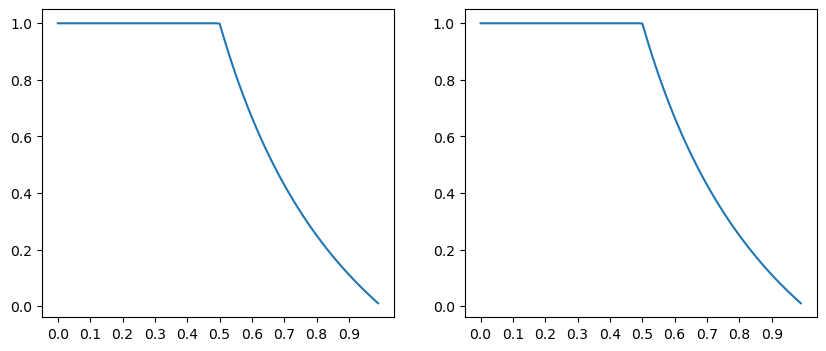
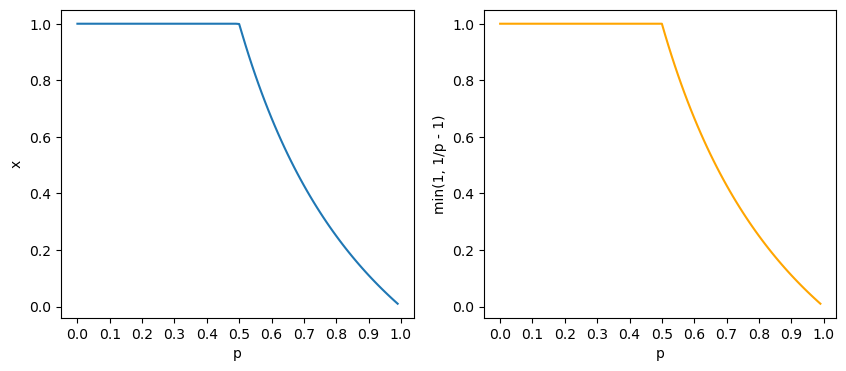
Update

diff --git a/_posts/2022-09-04-PCFG-Termination.md b/_posts/2022-09-04-PCFG-Termination.md
@@ -100,6 +100,8 @@ To compute the total probability of all finite-depth parse trees, we are essenti
 
 > A sequence converges if it is monotonic (increasing or decreasing) and bounded.
 
+A review of recursive sequence can be found [here](https://www.ms.uky.edu/~droyster/ma114F16/RecursiveSequences.pdf).
+
 Our sequence is obviously monotonically increasing by its definition, can you prove that it is bounded? A short proof is given in the appendix.
 
 *Hint: It can be proved by induction that*
@@ -147,40 +149,40 @@ def compute_rec(rec, init, args, iter):
 
 ```python
 cvg = []
+ref = []
 interval = .01
 for i, p0 in enumerate(np.arange(1e-12, 1, interval)):
     cvg.append(compute_rec(rec=rec, init=p0, args={
         "p": p0}, iter=2000)[-1])
+    ref.append(min(1, 1 / p0 - 1))
     if not i % 10:
-        print(f"p0 = {p0:.2f}\tconvergence = {cvg[-1]:.2f}\t(1 / p0 - 1) = {1 / p0 - 1:.2f}")
+        print(f"p = {p0:.2f}\tconvergence = {cvg[-1]:.2f}\tmin(1, 1/p - 1) = {ref[-1]:.2f}\t(1/p - 1) = {1 / p0 - 1:.2f}")
 ```
 
-    p0 = 0.00	convergence = 1.00	(1 / p0 - 1) = 999999999999.00
-    p0 = 0.10	convergence = 1.00	(1 / p0 - 1) = 9.00
-    p0 = 0.20	convergence = 1.00	(1 / p0 - 1) = 4.00
-    p0 = 0.30	convergence = 1.00	(1 / p0 - 1) = 2.33
-    p0 = 0.40	convergence = 1.00	(1 / p0 - 1) = 1.50
-    p0 = 0.50	convergence = 1.00	(1 / p0 - 1) = 1.00
-    p0 = 0.60	convergence = 0.67	(1 / p0 - 1) = 0.67
-    p0 = 0.70	convergence = 0.43	(1 / p0 - 1) = 0.43
-    p0 = 0.80	convergence = 0.25	(1 / p0 - 1) = 0.25
-    p0 = 0.90	convergence = 0.11	(1 / p0 - 1) = 0.11
+    p = 0.00	convergence = 1.00	min(1, 1/p - 1) = 1.00	(1/p - 1) = 999999999999.00
+    p = 0.10	convergence = 1.00	min(1, 1/p - 1) = 1.00	(1/p - 1) = 9.00
+    p = 0.20	convergence = 1.00	min(1, 1/p - 1) = 1.00	(1/p - 1) = 4.00
+    p = 0.30	convergence = 1.00	min(1, 1/p - 1) = 1.00	(1/p - 1) = 2.33
+    p = 0.40	convergence = 1.00	min(1, 1/p - 1) = 1.00	(1/p - 1) = 1.50
+    p = 0.50	convergence = 1.00	min(1, 1/p - 1) = 1.00	(1/p - 1) = 1.00
+    p = 0.60	convergence = 0.67	min(1, 1/p - 1) = 0.67	(1/p - 1) = 0.67
+    p = 0.70	convergence = 0.43	min(1, 1/p - 1) = 0.43	(1/p - 1) = 0.43
+    p = 0.80	convergence = 0.25	min(1, 1/p - 1) = 0.25	(1/p - 1) = 0.25
+    p = 0.90	convergence = 0.11	min(1, 1/p - 1) = 0.11	(1/p - 1) = 0.11
 
 
 
 ```python
 fig, ax = plt.subplots(1, 2, figsize=(5 * 2, 4))
 ax[0].plot(np.arange(0, 1, interval), cvg)
-ax[0].set_xticks(np.arange(0, 1, .1))
-ax[0].set_xlabel("M")
-ax[0].set_ylabel('Perplexity')
-ax[0].set_title("Held-out Estimate")
+ax[0].set_xticks(np.arange(0, 1.1, .1))
+ax[0].set_xlabel("p")
+ax[0].set_ylabel('x')
 
-ax[1].plot(np.arange(0, 1, interval), cvg)
-ax[1].set_xticks(np.arange(0, 1, .1))
-ax[1].set_xlabel("M")
-ax[1].set_ylabel('Perplexity')
-ax[1].set_title("Held-out Estimate")
+ax[1].plot(np.arange(0, 1, interval), ref, color="orange")
+ax[1].set_xticks(np.arange(0, 1.1, .1))
+ax[1].set_xlabel("p")
+ax[1].set_ylabel('min(1, 1/p - 1)')
 plt.show()
 ```
 
@@ -190,9 +192,20 @@ plt.show()
 
 
 
-Therefore, if $\displaystyle p > \frac{1}{2}$, we will have $\displaystyle x = \lim_{h \rightarrow \infty}x_h < 1$
+Therefore, if $\displaystyle p > \frac{1}{2}$, we will have $\displaystyle \frac{1}{p} - 1 < 1 \Rightarrow x = \lim_{h \rightarrow \infty}x_h = \text{min}(1, \frac{1}{p} - 1) < 1$, i.e. an improper probability. This further implies that there is a non-zero probability that the PCFG might not terminate at all.
 
-# Appendix
+We may also interpret this phenomenon intuitively. The outcome of the generation of this certain PCFG consists of two parts, those who eventually terminate (including trees with $h = \infty$) and those who don't. It happens that when the probability of picking the rule $\displaystyle P(S \rightarrow S \ S) = p > \frac{1}{2}$, the **total** probability of running the generation process forever $> 0$.
+
+In practice, we would like to avoid assigning such improper probability to the grammar. Fortunately, it appears that the maximum likelihood estimation (MLE) will always produce a proper distribution. A further discussion about this topic, as well as its extensions, can be found in [this paper](https://aclanthology.org/J99-1004.pdf).
+
+## Acknowledgement
+Special thanks to [Brian Lu](mailto:zlu39@jhu.edu) for his support for this blog post.
+
+## Reference
+
+Chi, Zhiyi. “Statistical Properties of Probabilistic Context-Free Grammars.” Comput. Linguistics 25 (1999): 131-160.
+
+## Appendix
 
 ### Proof of Sequence Bound
 
